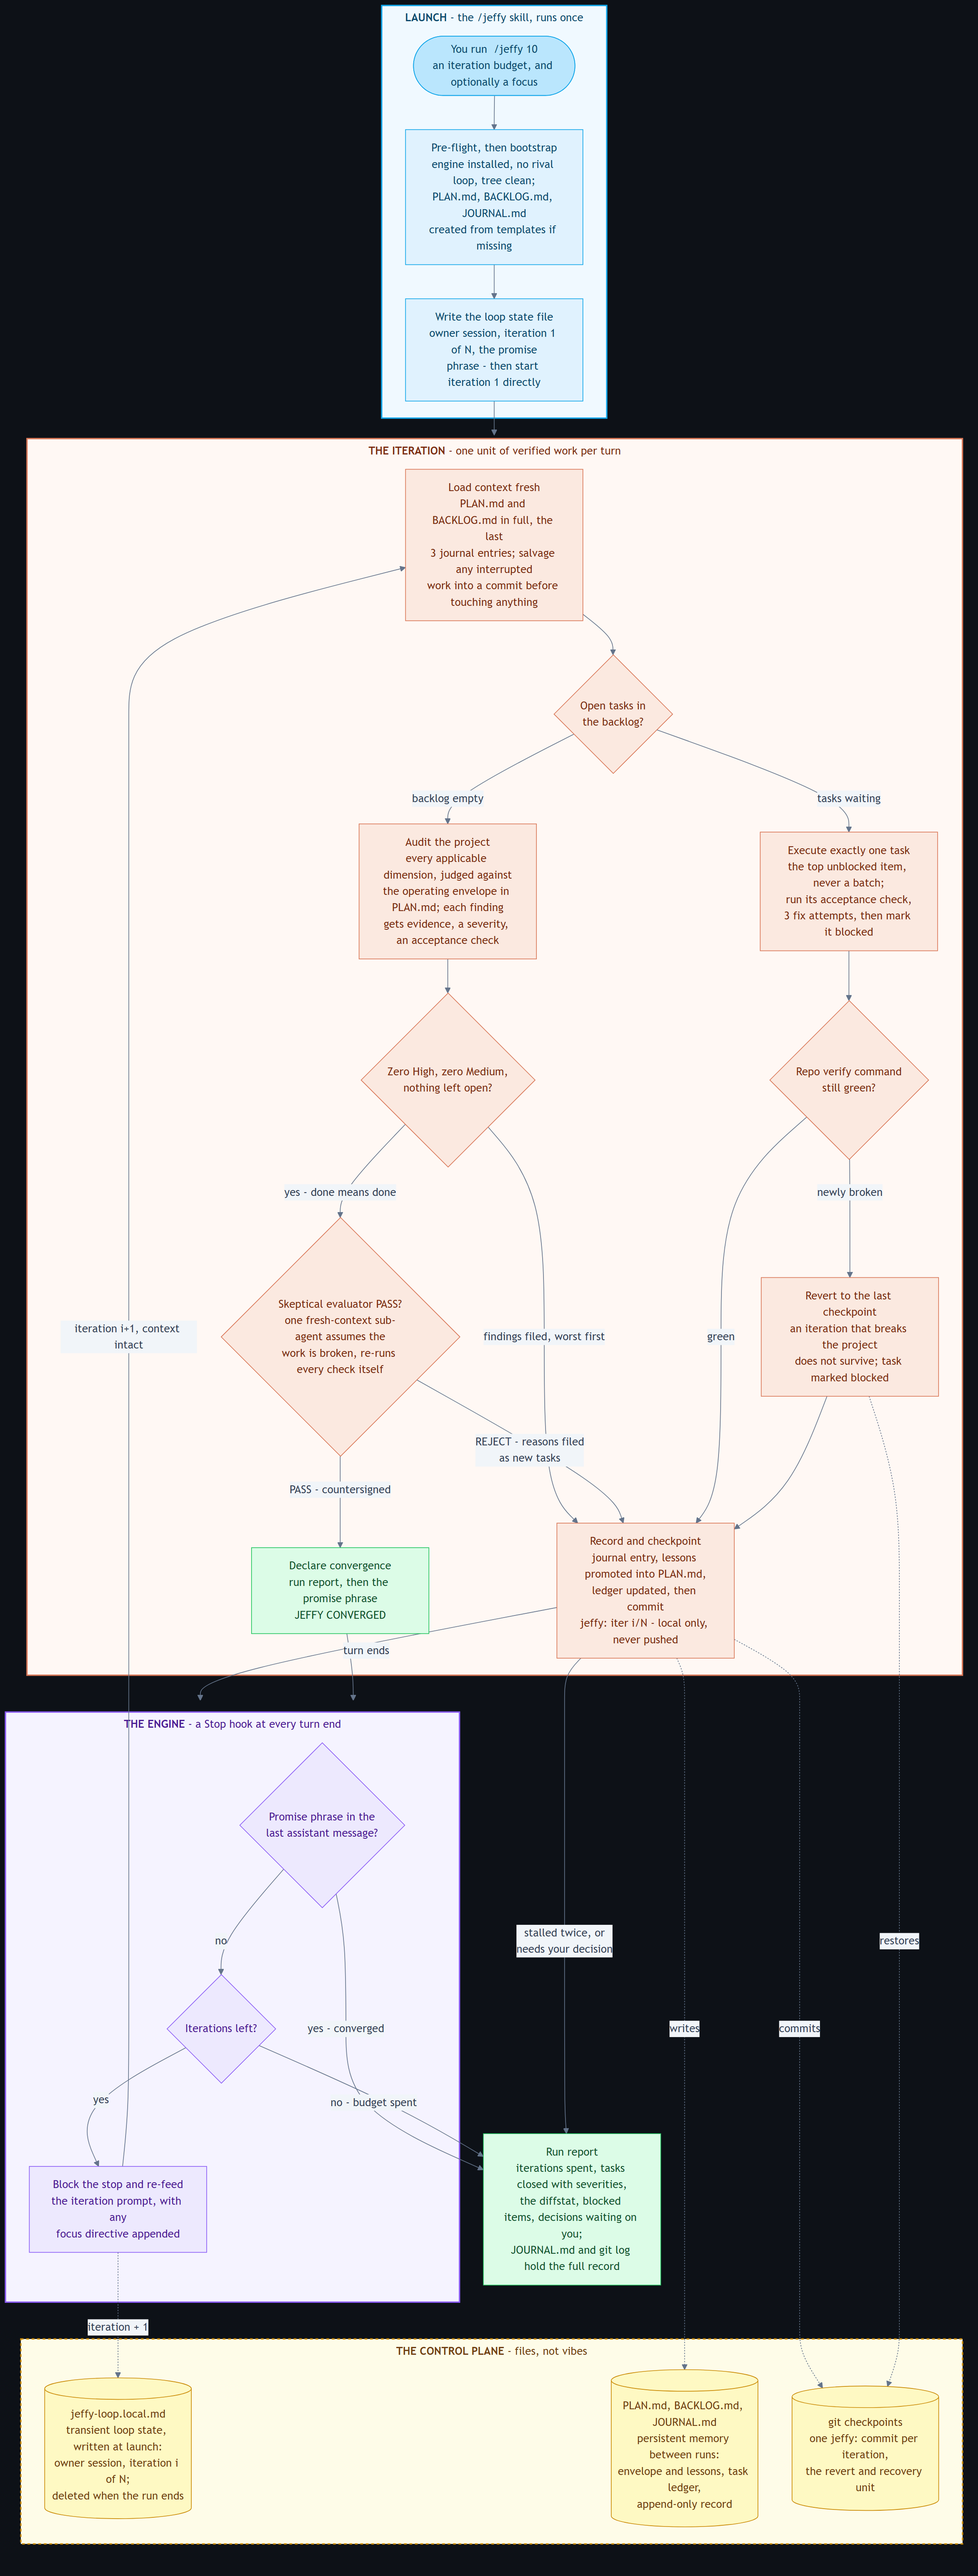
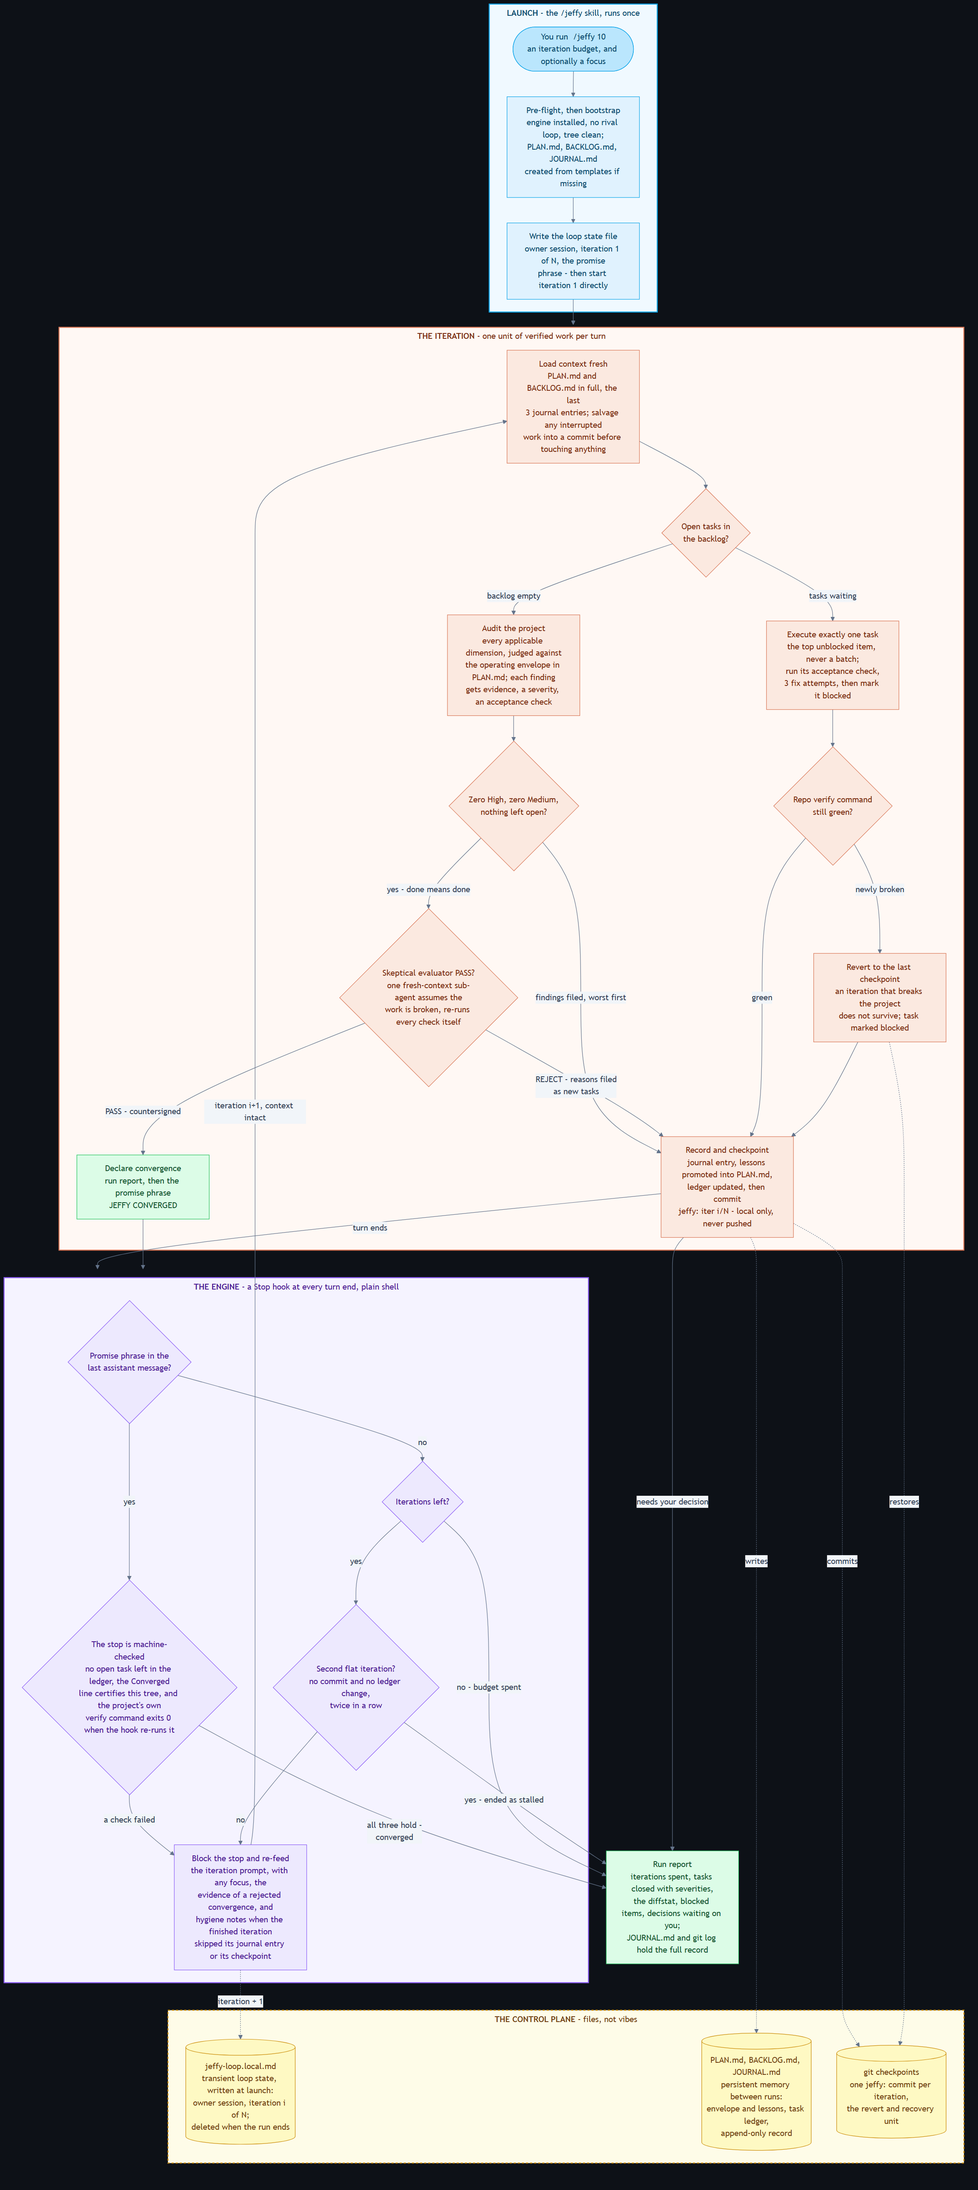
Update the flowchart for the enforcement stack, correct two receipts
The flowchart's engine subgraph still showed the promise ending a run
directly, which described the pre-Phase-1 engine. It now shows what the
hook actually does: the promise routes through the three machine checks,
a failed check re-feeds with the evidence, the re-feed carries hygiene
notes, and a second flat iteration ends the run as stalled. Both themes
re-rendered at 3x; edge-label chips verified light in dark theme and the
light theme verified free of dark surfaces.

The chalk receipt understated its own outcome: the maintainer merged
PR #687 implementing the proposed fix and shipped it in chalk v6.0.0,
verified against ff549c5 and source/index.js. The speedtest-cli star
count was stale at ~13k against a verified 14,082.

Claude-Session: https://claude.ai/code/session_01DHt5XVkCjFdPtapK9DxjZC

diff --git a/evals/chalk/REPORT.md b/evals/chalk/REPORT.md
@@ -33,4 +33,6 @@ Full iteration-by-iteration record: [journal.md](journal.md). Complete product d
 
 End state: 34/34 tests, 100 percent statement coverage, npm audit 0 vulnerabilities.
 
-**Status**: fixes live in this eval's artifacts. Nothing was pushed upstream. The correctness finding was disclosed upstream with a repro and a PR offer in [chalk/chalk#686](https://github.com/chalk/chalk/issues/686) (2026-07-23). Merging anything remains the maintainers' call.
+**Status**: fixes live in this eval's artifacts. Nothing was pushed upstream. The correctness finding was disclosed upstream with a repro and a PR offer in [chalk/chalk#686](https://github.com/chalk/chalk/issues/686) (2026-07-23).
+
+**Outcome: fixed upstream.** A chalk contributor reproduced the bug independently and confirmed the behavior was surprising, noting it was itself surprising that the issue had not surfaced earlier given how heavily chalk is used. The project owner then wrote and merged [chalk/chalk#687](https://github.com/chalk/chalk/pull/687), routing `ansi256()` and `bgAnsi256()` through `ansi256ToAnsi` at level 1, exactly the fix this eval proposed. It shipped in [chalk v6.0.0](https://github.com/chalk/chalk/releases/tag/v6.0.0) and the issue was closed as completed. Verified 2026-07-27 against `chalk/chalk@ff549c5` and `source/index.js`.

diff --git a/evals/speedtest-cli/REPORT.md b/evals/speedtest-cli/REPORT.md
@@ -1,6 +1,6 @@
 # Jeffy eval: sivel/speedtest-cli
 
-**Target**: [sivel/speedtest-cli](https://github.com/sivel/speedtest-cli) (~13k stars) at HEAD `22210ca` (2021), Python 3.11 - run in a local clone; nothing was pushed upstream.
+**Target**: [sivel/speedtest-cli](https://github.com/sivel/speedtest-cli) (~14.1k stars) at HEAD `22210ca` (2021), Python 3.11 - run in a local clone; nothing was pushed upstream.
 
 A deliberately contrasting case to [records](../records/REPORT.md): a dormant but fundamentally sound codebase, where the honest outcome is *small findings and restraint* - the loop must not invent problems to look busy.
 
